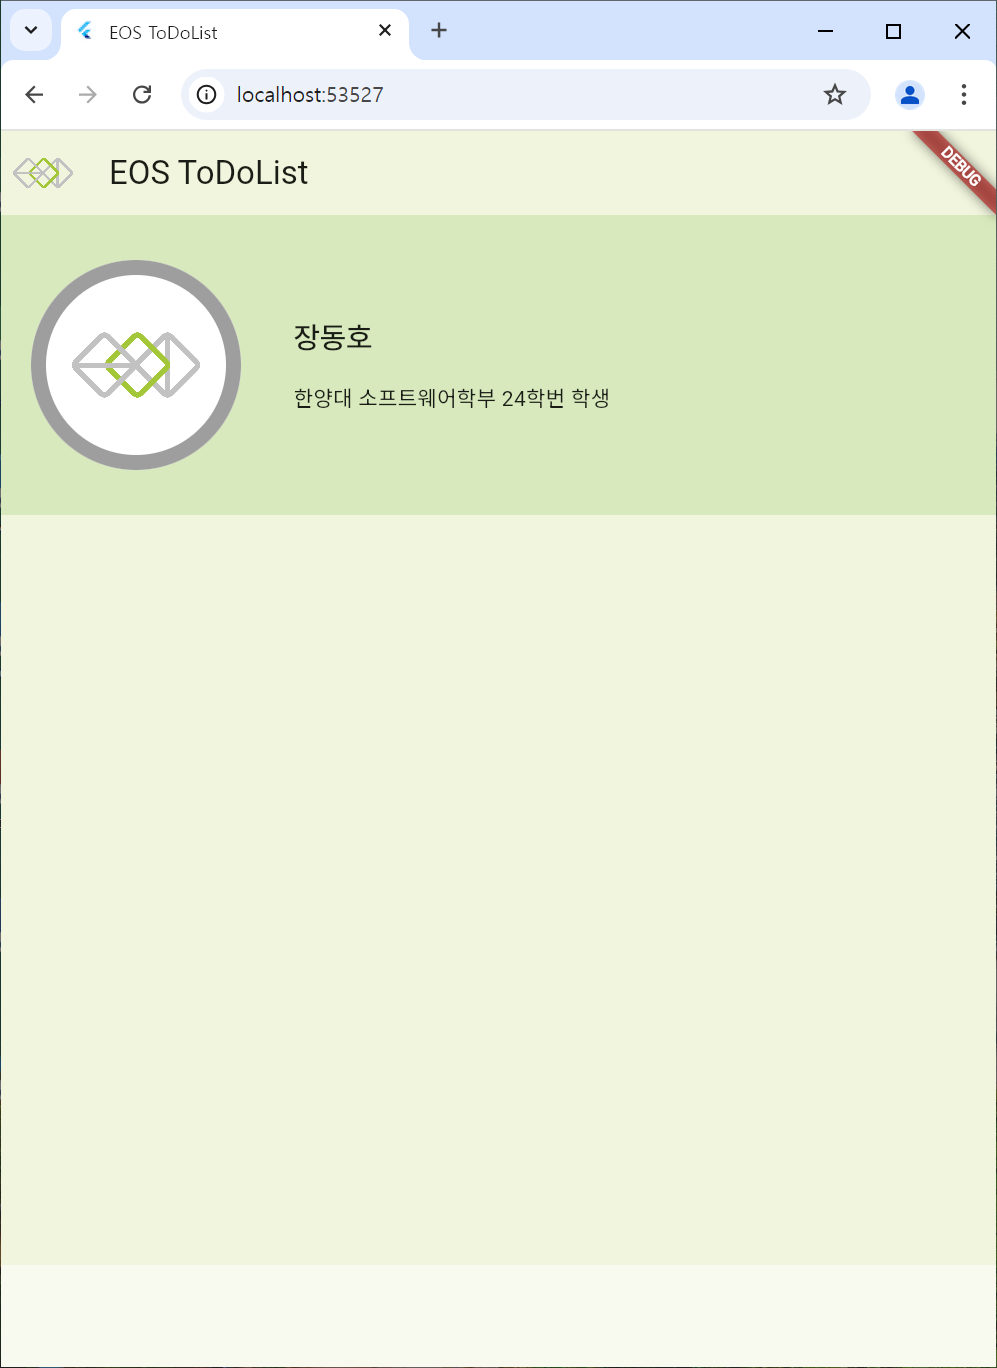
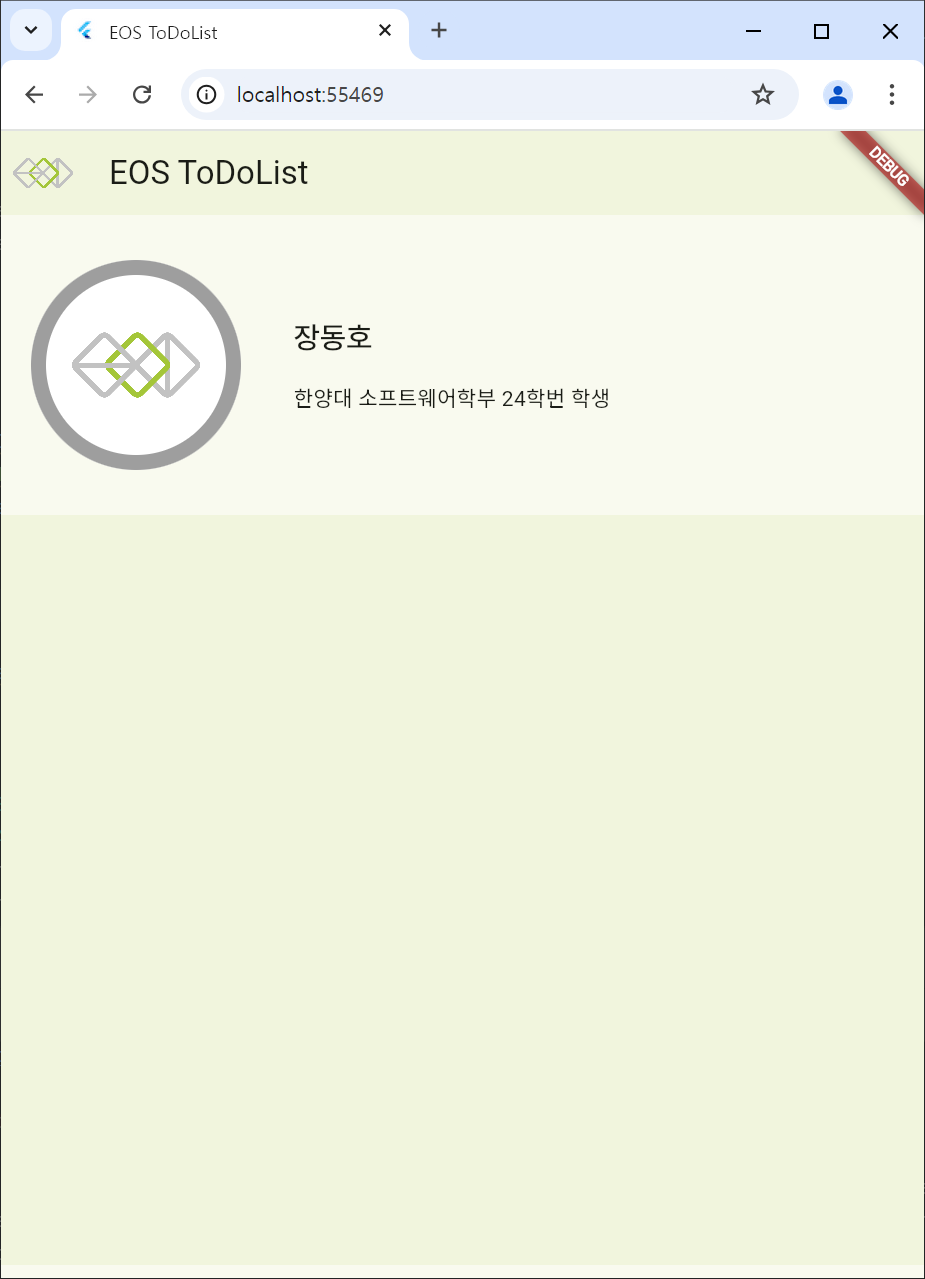
commit message]

Changed region(s): [[0.0, 0.0, 1.0, 1.0]]

diff --git a/lib/main.dart b/lib/main.dart
@@ -33,7 +33,6 @@ class MyHomePage extends StatelessWidget {
       body: Column(
         children: [
           Container(
-            color: Colors.lightGreen.withOpacity(0.3),
             height: 200,
             padding: EdgeInsets.all(20),
             child: Row(
@@ -51,7 +50,8 @@ class MyHomePage extends StatelessWidget {
                 SizedBox(
                   width: 35,
                 ),
-                Column(
+                Expanded(
+                child :Column(
                   crossAxisAlignment: CrossAxisAlignment.start,
                   mainAxisAlignment: MainAxisAlignment.center,
                   children: [
@@ -64,7 +64,7 @@ class MyHomePage extends StatelessWidget {
                     ),
                     Text('한양대 소프트웨어학부 24학번 학생')
                   ],
-                ),
+                ),),
               ],
             ),
           ),
